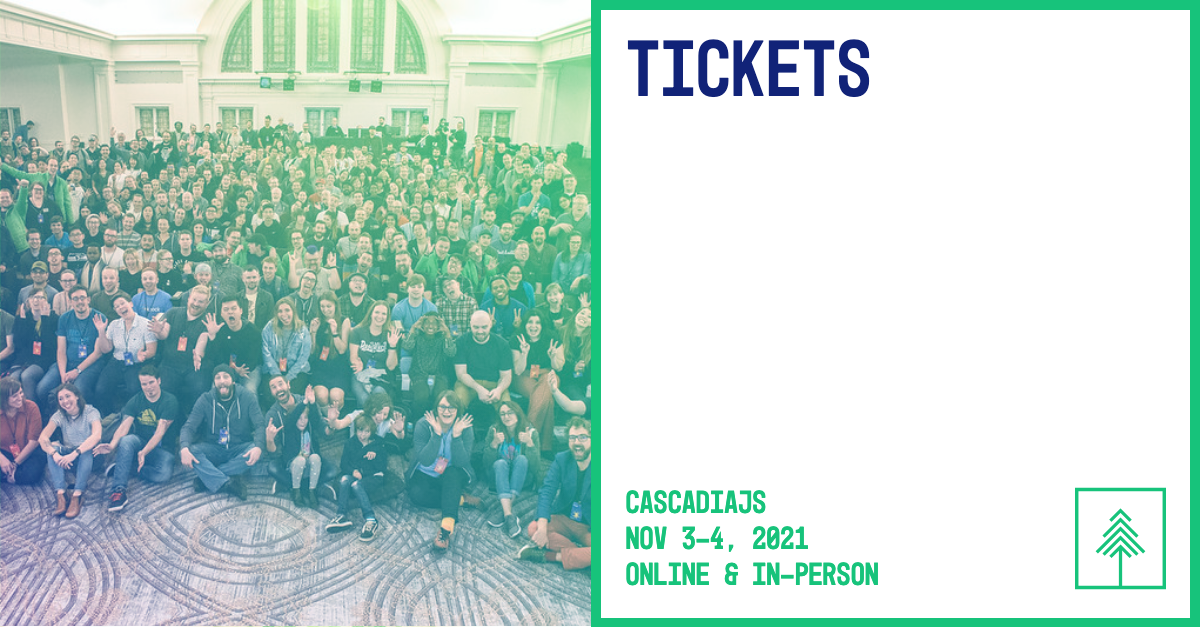
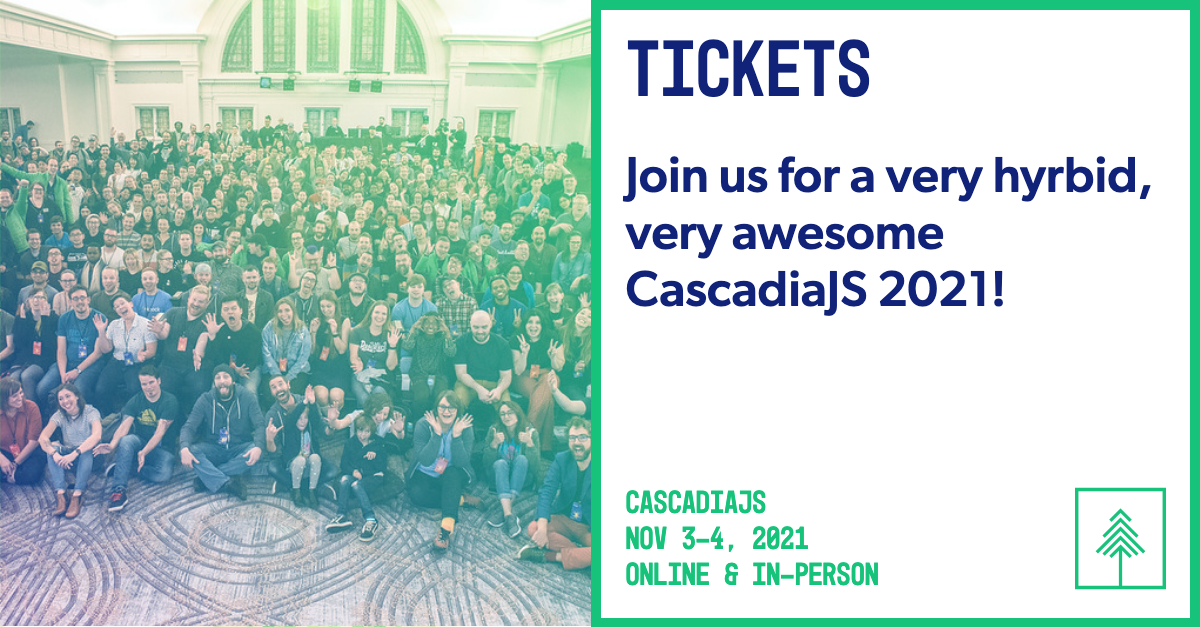
getting ready for early bird tickets

Changed region(s): [[0.5242, 0.2424, 0.9558, 0.5152]]

diff --git a/src/views/pages.js b/src/views/pages.js
@@ -8,6 +8,9 @@ let Layout = require('./layout')
 let SocialLayout = require('./layout/social')
 
 function MarkdownTemplate({ title, body }) {
+  /* begin hack for injecting variable content into markdown files */
+  body = body.replace(/\$\{SLACK_JOIN_URL\}/g, process.env.SLACK_JOIN_URL)
+  /* end hack */
   return /*html*/ `
     <div id="page">
       <div class="page-title">

diff --git a/public/styles/main.css b/public/styles/main.css
@@ -44,7 +44,7 @@ figcaption {
 
 p {
     line-height: 1.5;
-    margin: 0 0 10px 0;
+    margin: 0 0 16px 0;
 }
 
 blockquote {

diff --git a/src/views/content/tickets.md b/src/views/content/tickets.md
@@ -1,4 +1,38 @@
 ---
 title: Tickets
+excerpt: Join us for a very hyrbid, very awesome CascadiaJS 2021!
 ---
-Early Bird tickets go on sale <span class="highlight warning">Monday, June 28, 2021</span>. More info soon!
+Early Bird tickets are on sale starting <span class="highlight warning">June 28, 4pm PDT</span> in limited quantities! Please read below for more information on how this year's progressively enhanced hybrid event is going to work:
+
+*Note: all times below in PDT, which is UTC-7*
+## Baseline: a virtual CascadiaJS conference 
+
+Every ticket includes access to:
+
+<i class="fas fa-tv-retro"></i> Live streamed talks (9am - 5pm)
+
+<i class="fas fa-handshake"></i> Job Fair and other networking activities
+
+<i class="fas fa-turntable"></i> Opening and Closing virtual parties, which will include music, trivia, prizes and more (5pm - 7pm)
+
+<i class="fas fa-gifts"></i> Goodie Box with a hoodie, stickers and other fun stuff **shipped to you**
+
+## Enhanced: in-person events in Cascadia
+
+For folks who are vaccinated and interested in participating in an in-person event, we will be hosting in-person satellite events in Seattle WA, Portland OR and Vancouver BC! A ticket to one of our IRL events will include:
+
+<i class="fas fa-users-class"></i> a Watch Party in a central location
+
+<i class="fas fa-coffee"></i> Catering (coffee, light snacks and lunch)
+
+<i class="fas fa-microphone-stand"></i> Opening and Closing parties, which will definitely include karaoke (7pm - ???)
+
+<div class="cta"><a href="https://ti.to/event-loop/cascadiajs-2021">Buy Conference Ticket</a></div>
+
+## Highlights from CascadiaJS 2020
+
+<blockquote class="twitter-tweet"><p lang="en" dir="ltr">I absolutely LOVED MCing <a href="https://twitter.com/CascadiaJS?ref_src=twsrc%5Etfw">@CascadiaJS</a>! This was such a well organized conference, huge kudos to the speakers, the organizers, the sponsors, and of course the audience + community for making it great. It was a pleasure!! <a href="https://twitter.com/hashtag/cjs20?src=hash&amp;ref_src=twsrc%5Etfw">#cjs20</a> <a href="https://t.co/EhqjhYJEVY">pic.twitter.com/EhqjhYJEVY</a></p>&mdash; Cassidy (@cassidoo) <a href="https://twitter.com/cassidoo/status/1301313550577577984?ref_src=twsrc%5Etfw">September 3, 2020</a></blockquote>
+
+<blockquote class="twitter-tweet"><p lang="en" dir="ltr">LOOK what I got in the mail!! (I won&#39;t be wearing this in Seattle today. It&#39;s 94° in Seattle today. 🔥) <a href="https://twitter.com/CascadiaJS?ref_src=twsrc%5Etfw">@CascadiaJS</a><br><br>I am excited about wearing my Cascadia JS hoodie &amp; attending virtual Cascadia JS conf Sept 1st &amp; 2nd though!! It&#39;s gonna be SO hot/lit/awesome 🔥 🔥😁 <a href="https://twitter.com/hashtag/cjs20?src=hash&amp;ref_src=twsrc%5Etfw">#cjs20</a> <a href="https://t.co/wqM3XZbuch">pic.twitter.com/wqM3XZbuch</a></p>&mdash; Kate Pond (she/her) (@OhKPond) <a href="https://twitter.com/OhKPond/status/1295079291105898496?ref_src=twsrc%5Etfw">August 16, 2020</a></blockquote>
+
+<blockquote class="twitter-tweet"><p lang="en" dir="ltr">I&#39;ve been so impressed by all the <a href="https://twitter.com/CascadiaJS?ref_src=twsrc%5Etfw">@CascadiaJS</a> staff for putting together an amazing online conference and definitely making these 2 days incredible. <br>Love <a href="https://twitter.com/cassidoo?ref_src=twsrc%5Etfw">@cassidoo</a> as EMCEE and all the speakers have been so nice and knowledgeable. <a href="https://twitter.com/hashtag/cjs20?src=hash&amp;ref_src=twsrc%5Etfw">#cjs20</a> <a href="https://t.co/vPc5Ck27f5">pic.twitter.com/vPc5Ck27f5</a></p>&mdash; Bruna Garcia (@bruna_garciap) <a href="https://twitter.com/bruna_garciap/status/1301202552969662464?ref_src=twsrc%5Etfw">September 2, 2020</a></blockquote>

diff --git a/src/views/content/next-steps.md b/src/views/content/next-steps.md
@@ -1,0 +1,12 @@
+---
+title: Registration Next Steps
+---
+Thanks for buying a ticket to CascadiaJS 2021. We're so excited that you're going to join us this year!
+
+1. [Join the CascadiaJS Slack](${SLACK_JOIN_URL})
+1. [Follow us on Twitter](https://twitter.com/CascadiaJS)
+1. [Stay tuned](http://eepurl.com/dPmCkT) for updates about the event.
+
+See you soon!
+
+![CascadiaJS 2019 family photo](/images/cjs19-family.jpg)
